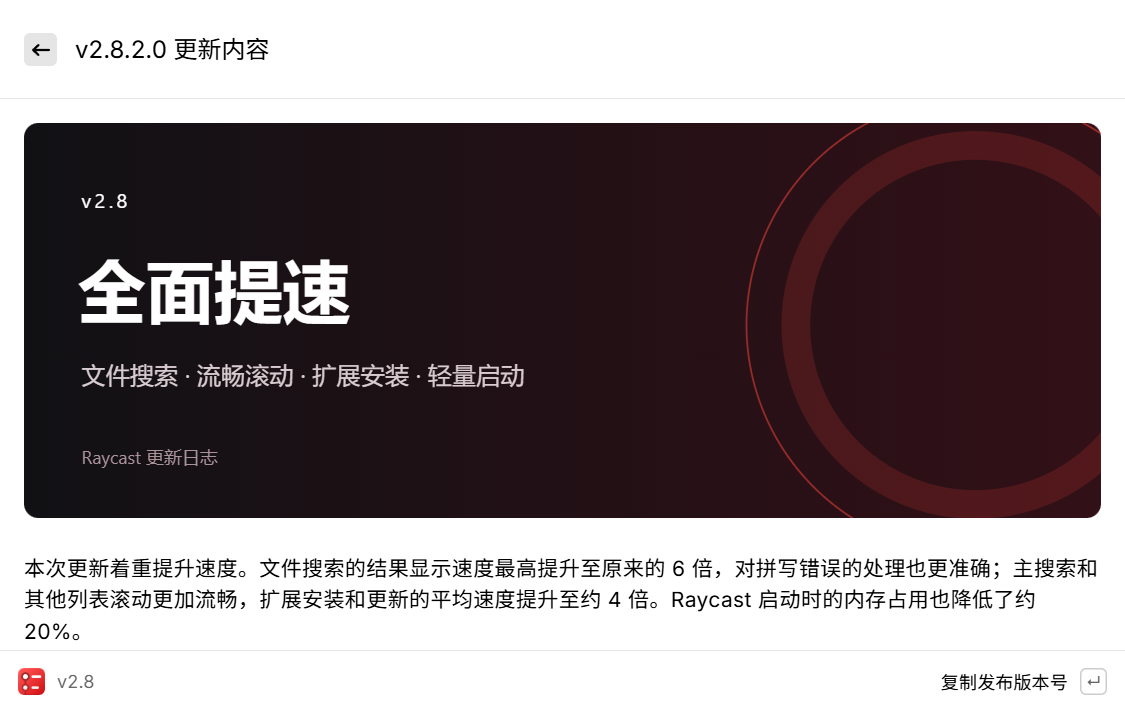
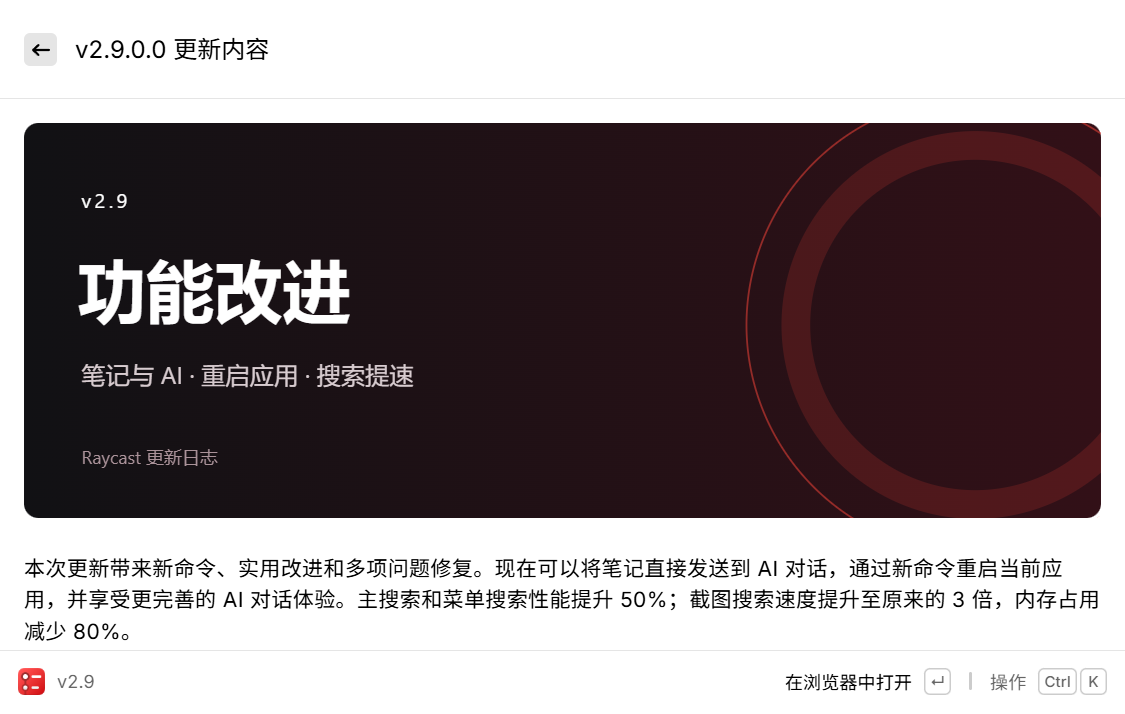
feat: support Raycast Windows 2.9.0.0

diff --git a/docs/validation.md b/docs/validation.md
@@ -1,5 +1,13 @@
 # Windows 汉化验收记录
 
+## 2.9.0.0-r1（2026-10-28）
+
+- 适配 Microsoft Store Raycast 2.9.0.0 x64，183 个资源文件、8,122 处显示修改。
+- 新增 108 条界面译文，涵盖编程、外部智能体、语音输入和声音设备管理等界面。
+- 翻译新版更新日志的 44 个文本块、标题及横幅。
+- 本机完成旧版卸载、新版安装和原版入口重启；主界面及更新日志中文显示已实测。
+- 25 项自动化测试通过，覆盖五个版本更新日志的翻译和恢复。
+
 ## 2.8.2.0-r1（2026-10-23）
 
 - 适配 Microsoft Store Raycast 2.8.2.0 x64，更新资源指纹；178 个资源文件、7,936 处显示修改。
@@ -76,6 +84,6 @@
 
 没有批量安装插件，没有登录外部服务，没有测试真实账号操作、付费功能、设备控制或所有命令。插件源码与 Store 已发布版本可能不同；运行时只翻译实际安装版本能安全识别的字面量。截图只显示本机已验收的界面，不代表所有页面均为中文。
 
-**尚未在第二台真实电脑验证完整安装和界面。** 支持条件是当前用户已安装 Microsoft Store Raycast 2.8.2.0 x64 且指纹匹配。不能据此保证其他版本、ARM64、组织管理策略限制的环境或所有插件流程均可用。
+**尚未在第二台真实电脑验证完整安装和界面。** 支持条件是当前用户已安装 Microsoft Store Raycast 2.9.0.0 x64 且指纹匹配。不能据此保证其他版本、ARM64、组织管理策略限制的环境或所有插件流程均可用。
 
 更新保护：主程序版本或指纹变化时拒绝加载。插件更新时重新备份并分析；不支持的语法跳过并记录。汉化文件被用户手动修改时，卸载拒绝覆盖该文件并保留备份。

diff --git a/README.md b/README.md
@@ -2,7 +2,7 @@
 
 Raycast Windows Simplified Chinese Localization，支持主界面、设置、商店、更新日志和热门插件。非官方项目。
 
-**适配 Microsoft Store 版 Raycast 2.8.2.0 x64。**
+**适配 Microsoft Store 版 Raycast 2.9.0.0 x64。**
 
 [下载 Windows 版](https://github.com/zwjtano/raycast-windows-zh-CN/releases/latest) · [macOS 版](https://github.com/zwjtano/raycast-macos-zh-CN)
 
